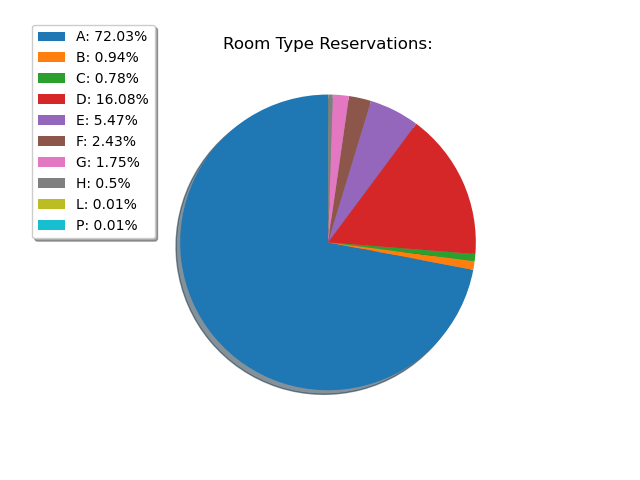
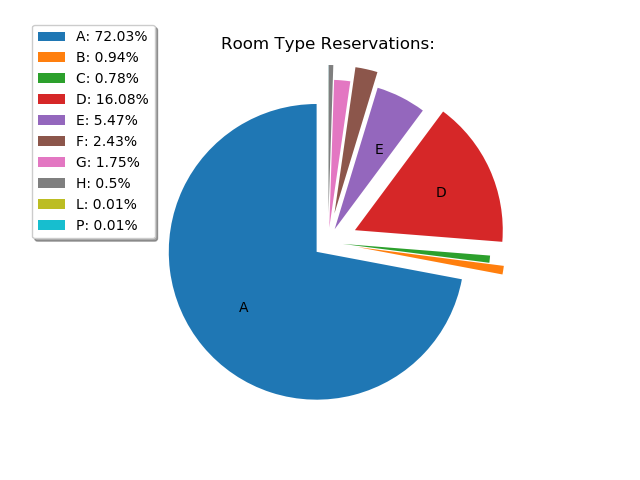
Added trend

diff --git a/functions.py b/functions.py
@@ -1,9 +1,12 @@
 import pandas as pd
+import numpy as np
 import matplotlib.pyplot as plt
+from scipy.stats import linregress
 
 def readFile(fileName):
     global csvFile
-    df = pd.read_csv(fileName)
+    global df
+    df = pd.read_csv(fileName, parse_dates={'date':['arrival_date_year','arrival_date_month','arrival_date_day_of_month']}, keep_date_col=True, index_col='date')
     csvFile = df.to_dict(orient='records')
 
 def calcStayInNightsAvg():
@@ -141,7 +144,7 @@ def calcRoomTypeStats():
         roomTypeDict[lines['reserved_room_type']] += 1
         counter += 1
     plt.tight_layout()
-    plt.pie(list(roomTypeDict.values()), shadow=True, startangle=90)
+    plt.pie(list(roomTypeDict.values()), startangle=90, explode=[0.1,0.2,0.1,0.2,0.1,0.2,0.1,0.2,0.1,0.2], labels = ["A", "", "", "D", "E", "", "", "", "", ""], labeldistance=.6)
     
     labels = [f'{l}: {round(s/counter*100, 2)}%' for l, s in zip(list(roomTypeDict.keys()),roomTypeDict.values())]
     plt.legend(shadow=True, labels=labels, bbox_to_anchor=(0.05,0.8), loc='center right')
@@ -151,25 +154,41 @@ def calcRoomTypeStats():
 
 def calcVisitorTypeStats():
     visitorTypeDict = {
-        "Family" : 0,
-        "Couple" : 0,
-        "Alone" : 0
+        "Families" : 0,
+        "Couples" : 0,
+        "Alone Travelers" : 0
     }
 
     for lines in csvFile:
         if lines['adults'] == 1 and lines['children'] == 0:
-            visitorTypeDict['Alone'] += 1
+            visitorTypeDict['Alone Travelers'] += 1
         elif lines['adults'] == 2 and lines['children'] == 0:
-            visitorTypeDict['Couple'] += 1
+            visitorTypeDict['Couples'] += 1
         elif lines['adults'] >= 1 and lines['children'] >= 0:
-            visitorTypeDict['Family'] += 1
+            visitorTypeDict['Families'] += 1
     plt.tight_layout()
-    plt.pie(list(visitorTypeDict.values()),labels=list(visitorTypeDict.keys()))
-    plt.title("Type of Visitors Stats:")
+    plt.pie(list(visitorTypeDict.values()),labels=[f'{l}\n{s}' for l, s in zip(list(visitorTypeDict.keys()), visitorTypeDict.values())], autopct='%1.1f%%', shadow=True, explode=([0.1, 0.1, 0.2]))
+    plt.title("Type of Visitors:")
     plt.savefig(".visitorTypeStats.png")
     plt.close()
 
+def calcTrend():
+    #calc total Reservation for each month of each year
+    df['reservations'] = 1  #Add a new collumn with the constant 1.
+    resampledDF = df.resample('M').sum()['reservations'] #Make a new data frame with only each month and the total number of reservations for this month = sum of reservations = 1+1+...+1
+    
+    #x = resampledDF.iloc[:,0]
+    x = range(26)
+    y = resampledDF.tolist()
+    
+    slope, intercept, r_value, p_value, std_err = linregress(x,y)
+    regression_line = slope * x + intercept
 
-
-
-
+    resampledDF.plot()
+    plt.plot(list(resampledDF.index), regression_line)
+    plt.grid()
+    plt.legend(["Reservations", "Trend"])
+    plt.title("Trend of Reservations over time:")
+    plt.tight_layout()
+    plt.savefig(".trend.png")
+    plt.close() 

diff --git a/QtUi.py b/QtUi.py
@@ -13,8 +13,9 @@ class MyWidget(QtWidgets.QWidget):
         CalcSeasonButton = QtWidgets.QPushButton("Season Stats")
         CalcRoomTypeButton = QtWidgets.QPushButton("Room Type Stats")
         CalcVisitorTypeButton = QtWidgets.QPushButton("Visitor Type Stats")
+        CalcTrendButton = QtWidgets.QPushButton("Trends")
 
-        ConsoleText = QtWidgets.QLabel("...Console...", )
+        ConsoleText = QtWidgets.QLabel("Please Click Read File To Start." )
         ConsoleText.setStyleSheet("QLabel {color: black; background-color: silver; border: 1px solid gray; border-radius: 2px;}")
 
         
@@ -38,6 +39,7 @@ class MyWidget(QtWidgets.QWidget):
         menuLayout.addWidget(CalcSeasonButton)
         menuLayout.addWidget(CalcRoomTypeButton)
         menuLayout.addWidget(CalcVisitorTypeButton)
+        menuLayout.addWidget(CalcTrendButton)
 
         menuLayout.insertSpacing(-1,500)
         outerLayout.addLayout(menuLayout)
@@ -113,9 +115,24 @@ class MyWidget(QtWidgets.QWidget):
                 pic.setScaledContents(True)
                 pic.show()
 
+        def calcTrendButton_func():
+            ConsoleText.setText("Calculating Trend... Please Wait.")
+            ConsoleText.repaint()
+            try:
+                fun.calcTrend()
+            except NameError:
+                ConsoleText.setText("No File Selected! Please Read A File First.")
+            else:
+                ConsoleText.setText("Trend Calculation Successful! Showing Graph.")
+                pixmap = QtGui.QPixmap(".trend.png")
+                pic.setPixmap(pixmap)
+                pic.setScaledContents(True)
+                pic.show()
+
         ReadFileButton.clicked.connect(readFileButton_func)
         CalcBasicButton.clicked.connect(calcBasicsButton_func)
         CalcMonthButton.clicked.connect(calcMonthsButton_func)
         CalcSeasonButton.clicked.connect(calcSeasonButton_func)
         CalcRoomTypeButton.clicked.connect(calcRoomTypeButton_func)
         CalcVisitorTypeButton.clicked.connect(calcVisitorTypeButton_func)
+        CalcTrendButton.clicked.connect(calcTrendButton_func)
